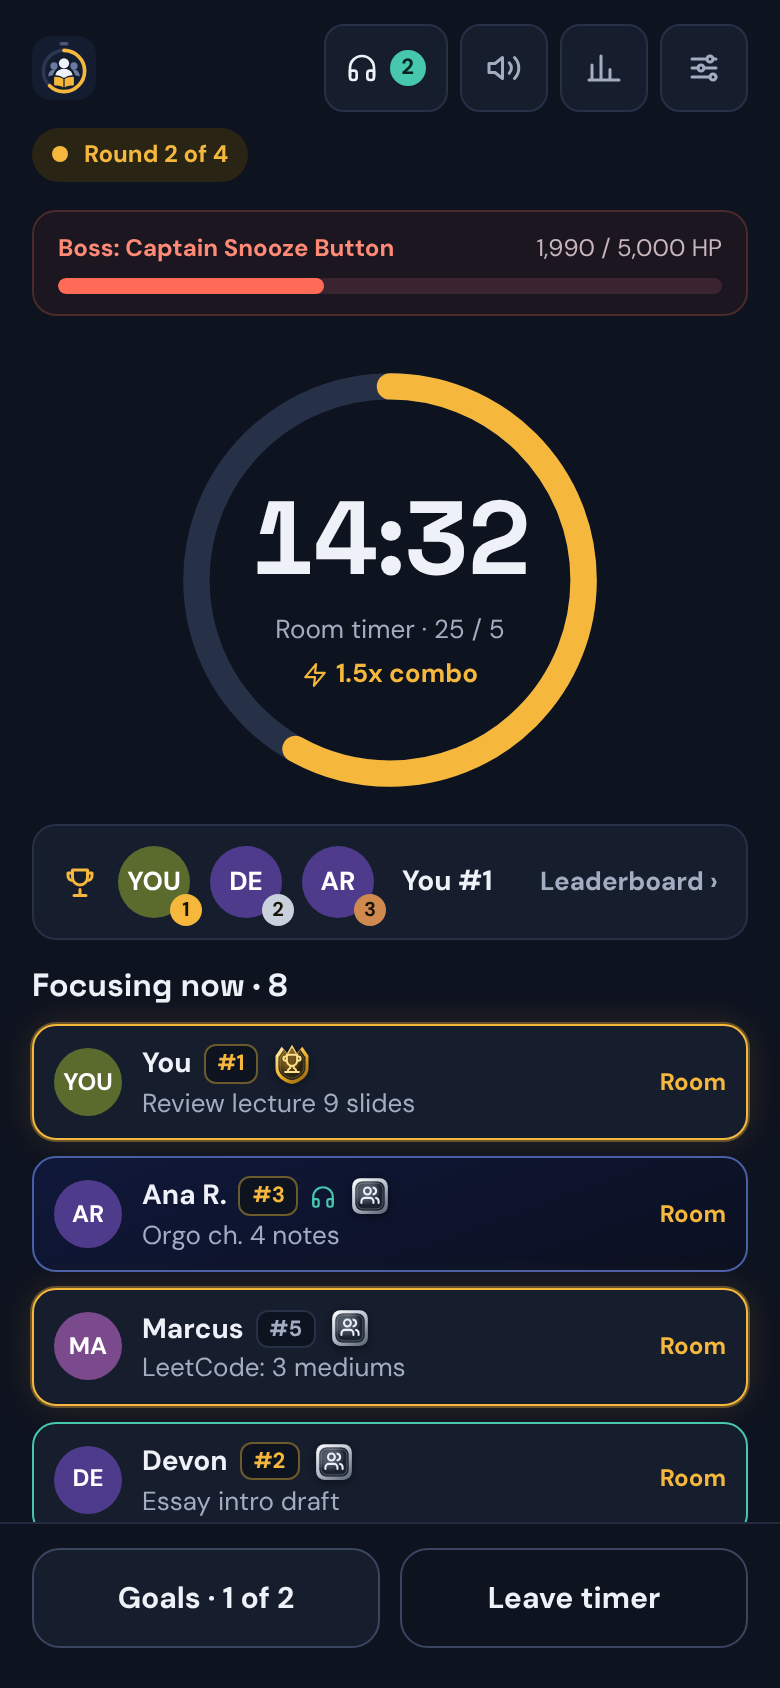
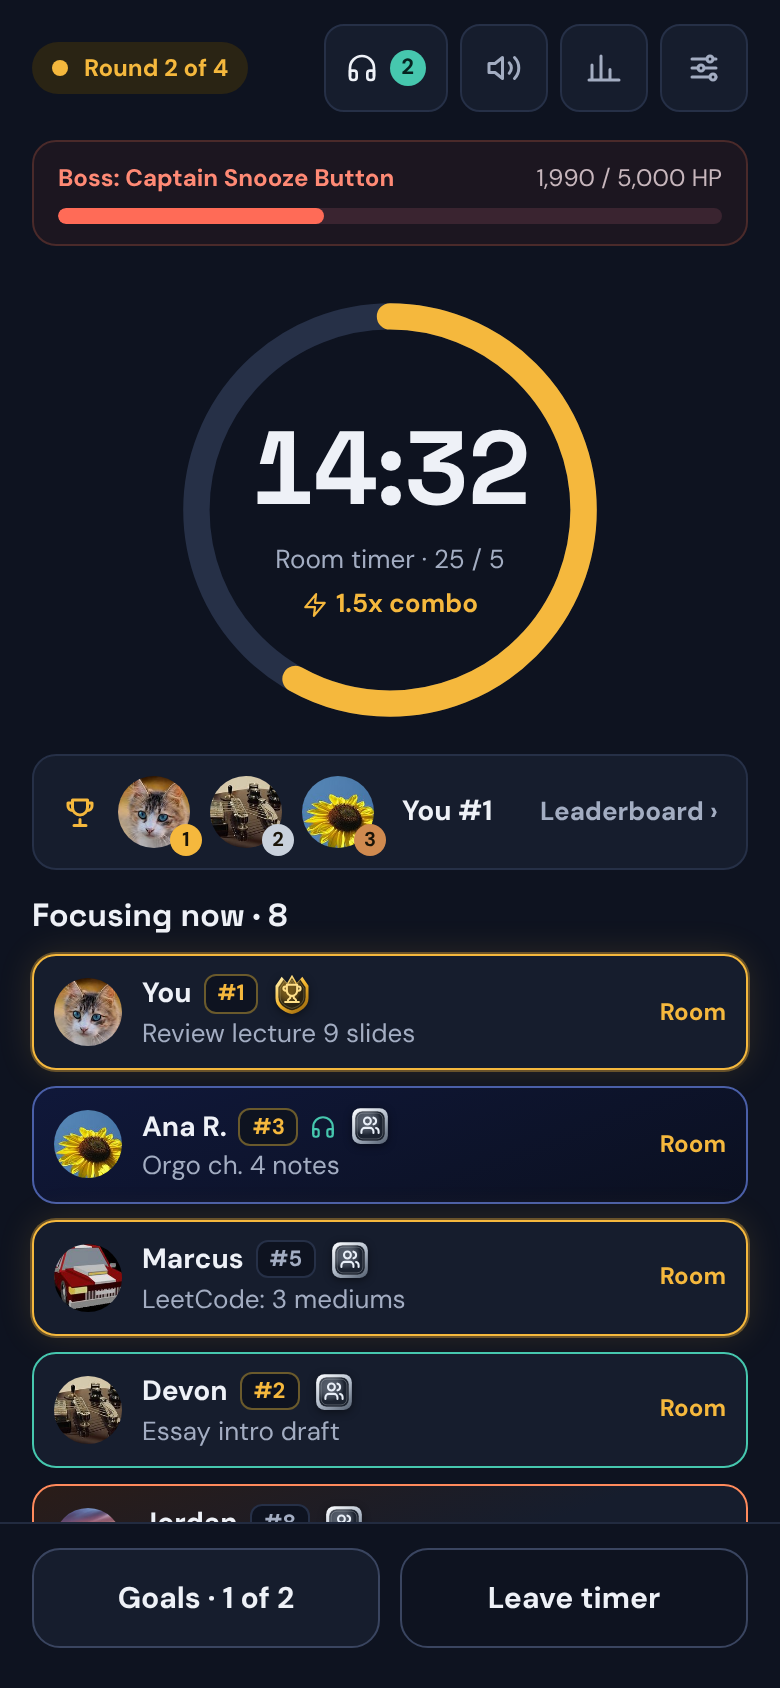
Release 0.6.1
Bump to 0.6.1, date the changelog entry, note the privacy policy
change from #180 and move its effective date, update the README
version and retake its screenshots.

Claude-Session: https://claude.ai/code/session_017BA9j8rYAD3LdtqLzHbtDj

Changed region(s): [[0.0308, 0.0, 0.9846, 0.9242], [0.6769, 0.4621, 0.9231, 0.5237]]

diff --git a/CHANGELOG.md b/CHANGELOG.md
@@ -4,6 +4,10 @@ All notable changes are listed here. The format follows [Keep a Changelog](https
 
 ## [Unreleased]
 
+## [0.6.1] - 2026-11-12
+
+Your username on the leaderboard, steadier phone header, sturdier profile pictures, and badge moments that wait for you.
+
 ### Fixed
 
 - The home page leaderboard, the top 3 podium and your own profile now show your Root username instead of "You".
@@ -15,6 +19,7 @@ All notable changes are listed here. The format follows [Keep a Changelog](https
 
 - The live demo's members now have profile pictures (a cat, a dog, a sports car and so on), like a real Root community.
 - Badge unlocks and the boss defeated moment now stay open until you close them (Nice!, a tap anywhere, or Escape) instead of closing by themselves. When you earn several badges at once, the next one's animation and music only start after you close the one before.
+- The privacy policy now says each device may keep a copy of the last profile picture it loaded (effective November 12, 2026).
 
 ## [0.6.0] - 2026-11-12
 

diff --git a/README.md b/README.md
@@ -43,7 +43,7 @@ Study Squad is a group study timer for [Root](https://www.rootapp.com) communiti
 - **Light and dark**, desktop and phone
 
 <details>
-<summary>All features (v0.6.0)</summary>
+<summary>All features (v0.6.1)</summary>
 
 - **Shared room timer** (25/5, 50/10 or custom, rounds of 4 with a long break) and **solo timers** that still show on the board
 - **Live focus board**: who's focusing, on what, how long is left, their rank and who's in voice. Goals can be private ("Focusing")

diff --git a/PRIVACY.md b/PRIVACY.md
@@ -1,6 +1,6 @@
 # Study Squad privacy policy
 
-_Effective November 11, 2026_
+_Effective November 12, 2026_
 
 Study Squad is a group study timer for [Root](https://www.rootapp.com) communities, made by Samuel Burke ("we", "us"). This page explains, in plain language, what Study Squad keeps, why, who sees it, and how you can delete it whenever you like.
 
